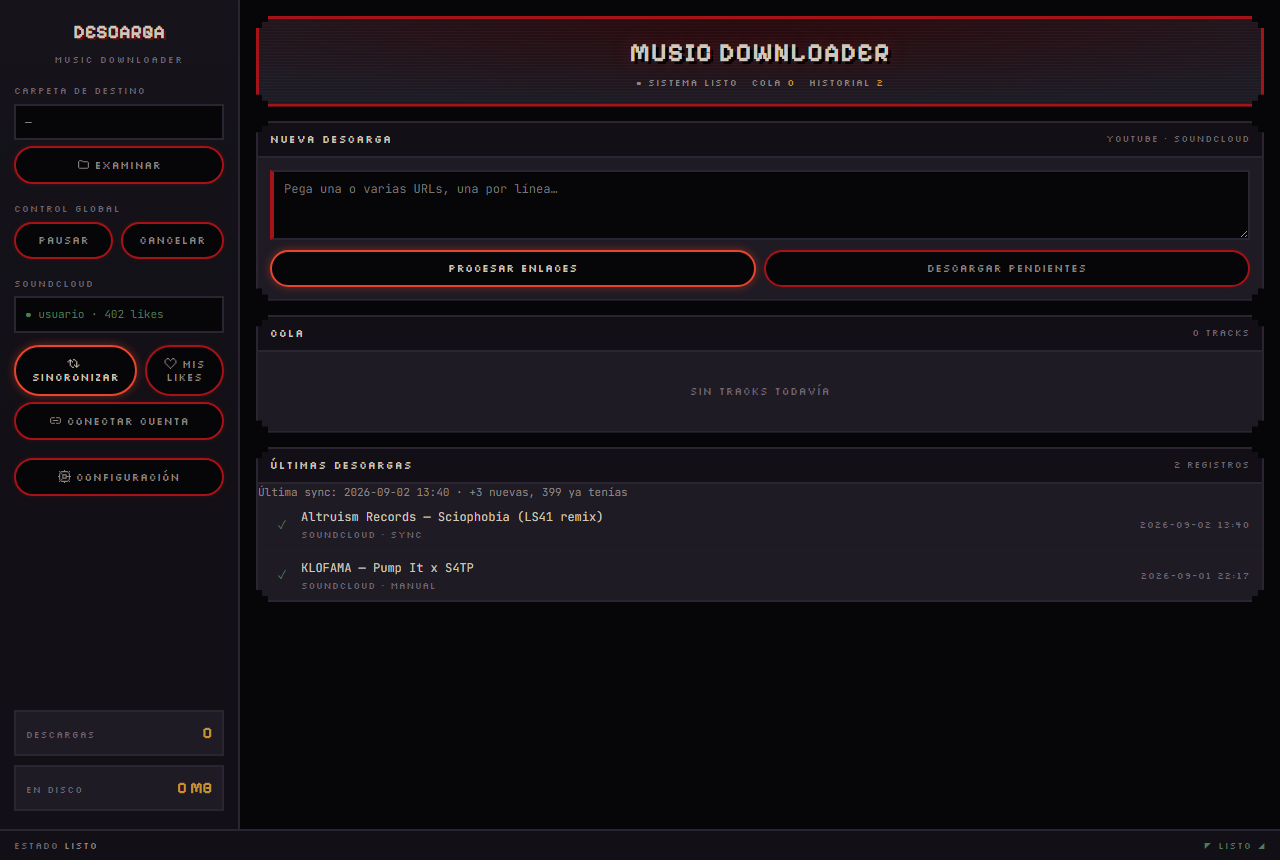
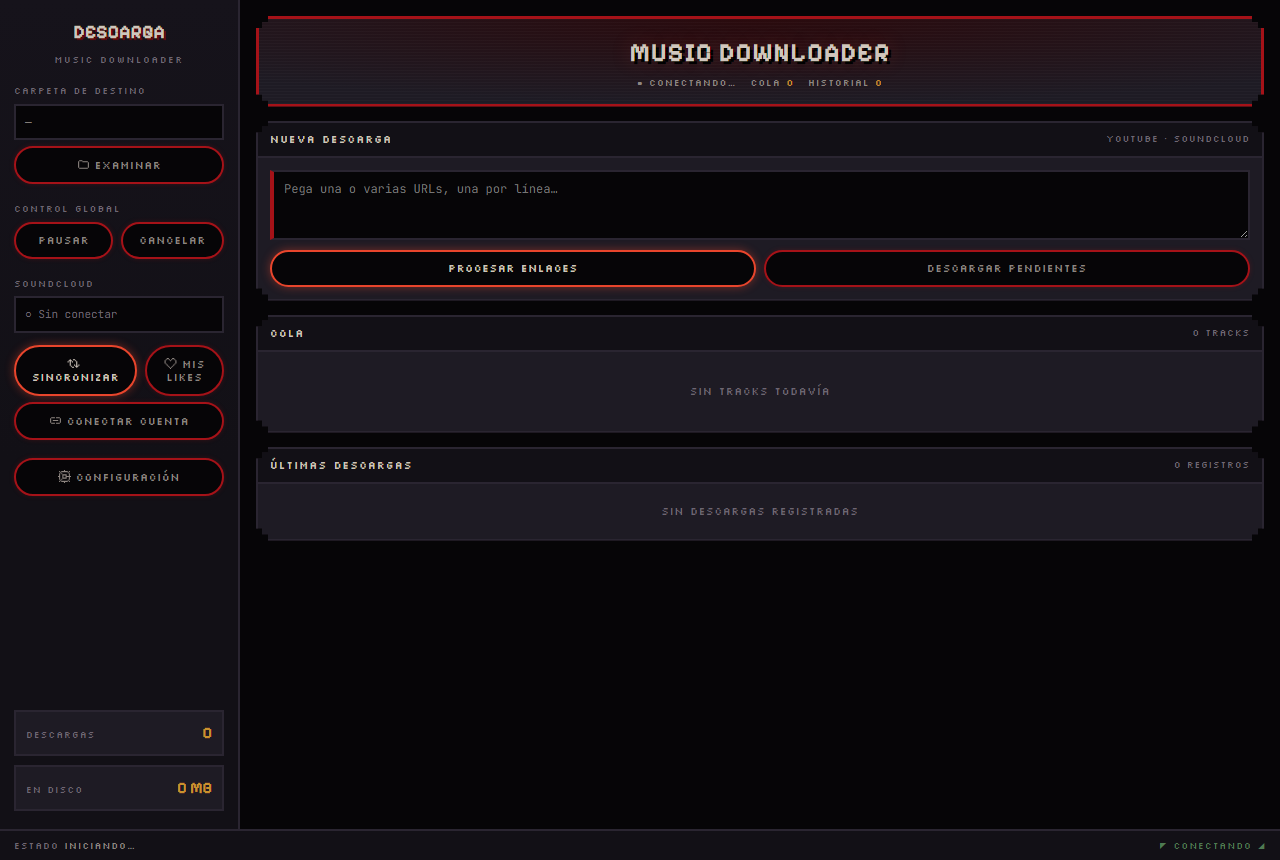
fix: los archivos basura de macOS se contaban como canciones; falta .aiff
macOS deja un "._NombreCancion.mp3" (AppleDouble, unos KB de metadatos)
junto a cada archivo al copiar a un disco no-Mac. Como copian la
extensión, se indexaban como música real: en la biblioteca de prueba
eran 613 falsos sobre 2036 archivos, y ensuciaban la detección de
duplicados, el conteo y las huellas de audio (varias fallaban al intentar
sacarle huella a un archivo de 4 KB). El conteo real era 1429, que
coincide con los 1420 que el índice de huellas lograba procesar.

- match_utils.es_basura_del_sistema() filtra "._*" y .DS_Store, y se
  aplica tanto al índice de nombres como al de huellas.
- .aiff/.aif agregadas a AUDIO_EXTENSIONS: son habituales en Serato y
  quedaban invisibles para duplicados y para el ordenado por género.
- analysis/fingerprint.py reusa la lista de match_utils en vez de tener
  su propia copia, que ya se había desincronizado.

diff --git a/sync/match_utils.py b/sync/match_utils.py
@@ -32,7 +32,23 @@ from thefuzz import fuzz
 
 logger = logging.getLogger(__name__)
 
-AUDIO_EXTENSIONS = {".mp3", ".m4a", ".flac", ".wav", ".ogg", ".opus", ".aac"}
+AUDIO_EXTENSIONS = {".mp3", ".m4a", ".flac", ".wav", ".ogg", ".opus", ".aac",
+                    ".aiff", ".aif"}
+
+
+def es_basura_del_sistema(path: Path) -> bool:
+    """
+    Archivos que NO son música aunque tengan extensión de audio.
+
+    macOS deja un "._NombreCancion.mp3" (AppleDouble, unos pocos KB con
+    metadatos) junto a cada archivo al copiar a un disco no-Mac, más los
+    .DS_Store de Finder. Como copian la extensión, se indexaban como
+    canciones reales: en una biblioteca de prueba había 613 de estos
+    falsos sobre 2036 archivos, y ensuciaban tanto la detección de
+    duplicados como el conteo y las huellas de audio.
+    """
+    name = path.name
+    return name.startswith("._") or name == ".DS_Store"
 
 # Umbral por defecto para considerar dos títulos la misma canción.
 # Elegido midiendo contra una biblioteca real de 1904 archivos y 392 likes:
@@ -118,6 +134,8 @@ def index_audio_files(folders: Iterable[str]) -> list[tuple[Path, set[str]]]:
             continue
         try:
             for path in root.rglob("*"):
+                if es_basura_del_sistema(path):
+                    continue
                 if not path.is_file() or path.suffix.lower() not in AUDIO_EXTENSIONS:
                     continue
                 key = str(path).lower()

diff --git a/analysis/fingerprint.py b/analysis/fingerprint.py
@@ -20,6 +20,8 @@ import sys
 from pathlib import Path
 from typing import Iterable, Optional
 
+from sync import match_utils
+
 logger = logging.getLogger(__name__)
 
 MATCH_THRESHOLD = 0.85
@@ -28,7 +30,9 @@ FP_LENGTH = 60
 
 CACHE_PATH = Path.home() / ".music_downloader" / "fingerprint_index.json"
 
-AUDIO_EXTENSIONS = {".mp3", ".m4a", ".flac", ".wav", ".ogg", ".opus", ".aac"}
+# Compartidas con el matching por nombre: una sola lista, y el mismo filtro
+# de archivos basura del sistema.
+AUDIO_EXTENSIONS = match_utils.AUDIO_EXTENSIONS
 
 
 def _fpcalc_path() -> str:
@@ -133,7 +137,12 @@ class LibraryFingerprintIndex:
             root = Path(folder)
             if not root.is_dir():
                 continue
-            files.extend(p for p in root.rglob("*") if p.suffix.lower() in AUDIO_EXTENSIONS and p.is_file())
+            files.extend(
+                p for p in root.rglob("*")
+                if p.suffix.lower() in AUDIO_EXTENSIONS
+                and p.is_file()
+                and not match_utils.es_basura_del_sistema(p)
+            )
 
         new_entries = {}
         computed = 0

diff --git a/README.md b/README.md
@@ -1,6 +1,6 @@
 # 🎵 Music Downloader
 
-Aplicación de escritorio para descargar música de **SoundCloud y YouTube**, con sincronización automática de tus likes, detección de duplicados (por nombre de archivo *y* por audio real), y detección de BPM/tonalidad para mezcla armónica.
+Aplicación de escritorio para descargar música de **SoundCloud y YouTube**, con sincronización automática de tus likes, organización en carpetas por subgénero, detección de duplicados (por nombre de archivo *y* por audio real), y detección de BPM/tonalidad para mezcla armónica.
 
 ![Python](https://img.shields.io/badge/Python-3.9%2B-blue)
 ![License](https://img.shields.io/badge/License-MIT-green)
@@ -15,6 +15,12 @@ Aplicación de escritorio para descargar música de **SoundCloud y YouTube**, co
   - Descarga automática de tus likes de SoundCloud
   - Sincronización periódica (manual o programada con el Task Scheduler de Windows)
   - Explorador de "Mis Likes" con estado de descarga y fecha
+
+- **Organización automática por subgénero**
+  - Cada descarga va sola a la carpeta de su género (`Schranz/`, `Hardgroove/`, `Industrial Techno/`…), sin elegir nada por canción
+  - El subgénero se resuelve leyendo los **tags** de SoundCloud, no solo el campo `genre`, que el uploader suele dejar en algo genérico. Medido sobre una biblioteca real de 402 canciones: 34% tenían género genérico mientras el subgénero estaba en los tags, y *schranz* aparecía 57 veces en los tags contra 14 en `genre`
+  - Reusa las carpetas que ya tengas (ignorando mayúsculas) y descarta basura como categorías de YouTube (`Music`, `Entertainment`) o volcados de tags
+  - Panel **"Ordenar la música que ya tengo"**: vista previa de a qué carpeta iría cada canción antes de mover nada, con archivo de deshacer
 
 - **Detección de duplicados en dos capas**
   - Matching difuso de nombre de archivo contra toda tu biblioteca (no solo la carpeta de destino)
@@ -91,6 +97,7 @@ Ingresá estos valores desde "Conectar cuenta" en la app.
 2. **Sincronizar** — conectá tu cuenta y sincronizá tus likes; la app se encarga de no re-descargar lo que ya tenés.
 3. **Mis Likes** — explorá tus likes guardados, con estado de descarga y fecha, y bajá selecciones puntuales.
 4. **Sincronización automática** — desde Configuración podés registrar una tarea programada de Windows para que sincronice sola cada X horas, incluso con la app cerrada.
+5. **Ordenar por género** — activá "Ordenar por género en carpetas" y cada descarga nueva cae sola donde corresponde. Si ya tenés música suelta, el botón "Ordenar la música que ya tengo" la acomoda: primero te muestra la simulación, y solo mueve si confirmás.
 
 ## 📁 Estructura del Proyecto
 
@@ -105,6 +112,7 @@ music-downloader/
 │   ├── soundcloud_api.py
 │   ├── sync_manager.py
 │   ├── duplicate_checker.py # Matching difuso de nombres
+│   ├── genre_utils.py       # Resolución de subgénero (genre + tags + título)
 │   └── task_scheduler.py    # Integración con Task Scheduler de Windows
 ├── analysis/                 # BPM/tonalidad y huella de audio
 │   ├── audio_analysis.py     # Detección BPM/Camelot (librosa)
@@ -122,7 +130,8 @@ Desde el panel de Configuración de la app:
 
 - **Patrón de nombre de archivo**: `{artist} - {title}`, `{title}`, o personalizado
 - **Preset de calidad**: MP3 320/256/128 kbps, FLAC
-- **Post-procesamiento**: normalización de volumen, eliminación de silencios, metadatos, carátula
+- **Post-procesamiento**: normalización de volumen, eliminación de silencios, metadatos, carátula, género
+- **Ordenar por género en carpetas**: las carpetas se crean en la raíz de tu biblioteca (no dentro de la carpeta de descarga), y la app te muestra la ruta exacta
 - **Análisis de audio**: activar/desactivar BPM/tonalidad y elegir formato (Camelot o musical)
 - **Duplicados por audio**: activado por defecto; se puede desactivar si preferís solo el matching por nombre
 
@@ -144,7 +153,9 @@ Desde el panel de Configuración de la app:
 
 ## 📊 Base de datos
 
-El historial se guarda en `~/.music_downloader/history.db` (SQLite), con tablas separadas para descargas manuales, descargas por sync, likes guardados y fallos permanentes (DRM/geo-bloqueo).
+El historial se guarda en `~/.music_downloader/history.db` (SQLite), con tablas separadas para descargas manuales, descargas por sync, likes guardados (incluidos sus tags, para resolver el subgénero) y fallos permanentes (DRM/geo-bloqueo).
+
+En esa misma carpeta quedan el índice de huellas de audio (`fingerprint_index.json`, cacheado por fecha y tamaño para no re-analizar la biblioteca entera en cada sync) y los archivos `undo_organizar_*.json` que genera el ordenado por género.
 
 ## 🤝 Contribuciones
 
